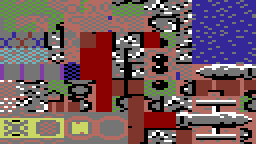
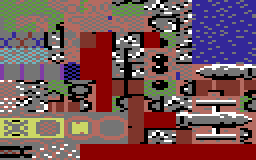
Added visuals for gas trap. No sound yet.
git-svn-id: svn://192.168.0.200/Xle/trunk@209 8e2493a0-6f32-3e4d-a2e5-9abab0ebc7f0

diff --git a/LegacyOfTheAncients/MapExtenders/Fortress/GasTrap.cs b/LegacyOfTheAncients/MapExtenders/Fortress/GasTrap.cs
@@ -11,21 +11,26 @@ namespace ERY.Xle.LotA.MapExtenders.Fortress
 	{
 		public override void StepOn(GameState state, ref bool handled)
 		{
+			if (state.Player.Y > TheEvent.Y + 2)
+				return;
+
 			handled = true;
 			TheEvent.Enabled = false;
+
+			MapData data = state.Map.ReadMapData(TheEvent.Rectangle);
 
 			var ta = XleCore.TextArea;
 
 			ta.Clear(true);
 			ta.PrintLine();
 			ta.PrintLine("Doors slam shut...");
-
-			AddDoorsAndGas(state);
+			AddDoors(state);
 
 			XleCore.Wait(1000);
 
 			ta.PrintLine();
 			ta.PrintLine("Gas fills the room...");
+			AddGas(state);
 
 			XleCore.Wait(3500);
 
@@ -43,6 +48,8 @@ namespace ERY.Xle.LotA.MapExtenders.Fortress
 			state.Player.Y = 45;
 
 			XleCore.Wait(3500);
+
+			state.Map.WriteMapData(data, TheEvent.Rectangle.Location);
 		}
 
 		private void RemoveWeaponsAndArmor(GameState state)
@@ -57,8 +64,44 @@ namespace ERY.Xle.LotA.MapExtenders.Fortress
 			Display.EndFrame();
 		}
 
-		private void AddDoorsAndGas(GameState state)
+		private void AddGas(GameState state)
 		{
+			var gasGroup = state.Map.TileSet.TileGroups.FirstOrDefault(x => x.GroupType == Maps.GroupType.Special2);
+
+			int startx = StartX(state);
+
+			for (int j = TheEvent.Rectangle.Y + 1; j < TheEvent.Rectangle.Bottom - 1; j++)
+			{
+				for (int i = startx; i < startx + 3; i++)
+				{
+					state.Map[i, j] = gasGroup.RandomTile();
+				}
+			}
+		}
+
+		private void AddDoors(GameState state)
+		{
+			var doorGroup = state.Map.TileSet.TileGroups.FirstOrDefault(x => x.GroupType == Maps.GroupType.Door);
+
+			int startx = StartX(state);
+
+			for (int i = startx; i < startx + 3; i++)
+			{
+				int tile = doorGroup.Tiles[(i - startx) % doorGroup.Tiles.Count];
+
+				state.Map[i, TheEvent.Y] = tile;
+				state.Map[i, TheEvent.Rectangle.Bottom - 1] = tile;
+			}
+		}
+
+		private int StartX(GameState state)
+		{
+			int x = TheEvent.X;
+
+			if (state.Player.X > TheEvent.X + 4)
+				x = TheEvent.X + 5;
+
+			return x;
 		}
 	}
 }

diff --git a/Xle/Maps/TileGroup.cs b/Xle/Maps/TileGroup.cs
@@ -55,5 +55,10 @@ namespace ERY.Xle.Maps
 		public double TimeSinceLastAnim { get; set; }
 
 		#endregion
+
+		public int RandomTile()
+		{
+			return Tiles[XleCore.random.Next(Tiles.Count)];
+		}
 	}
 }
